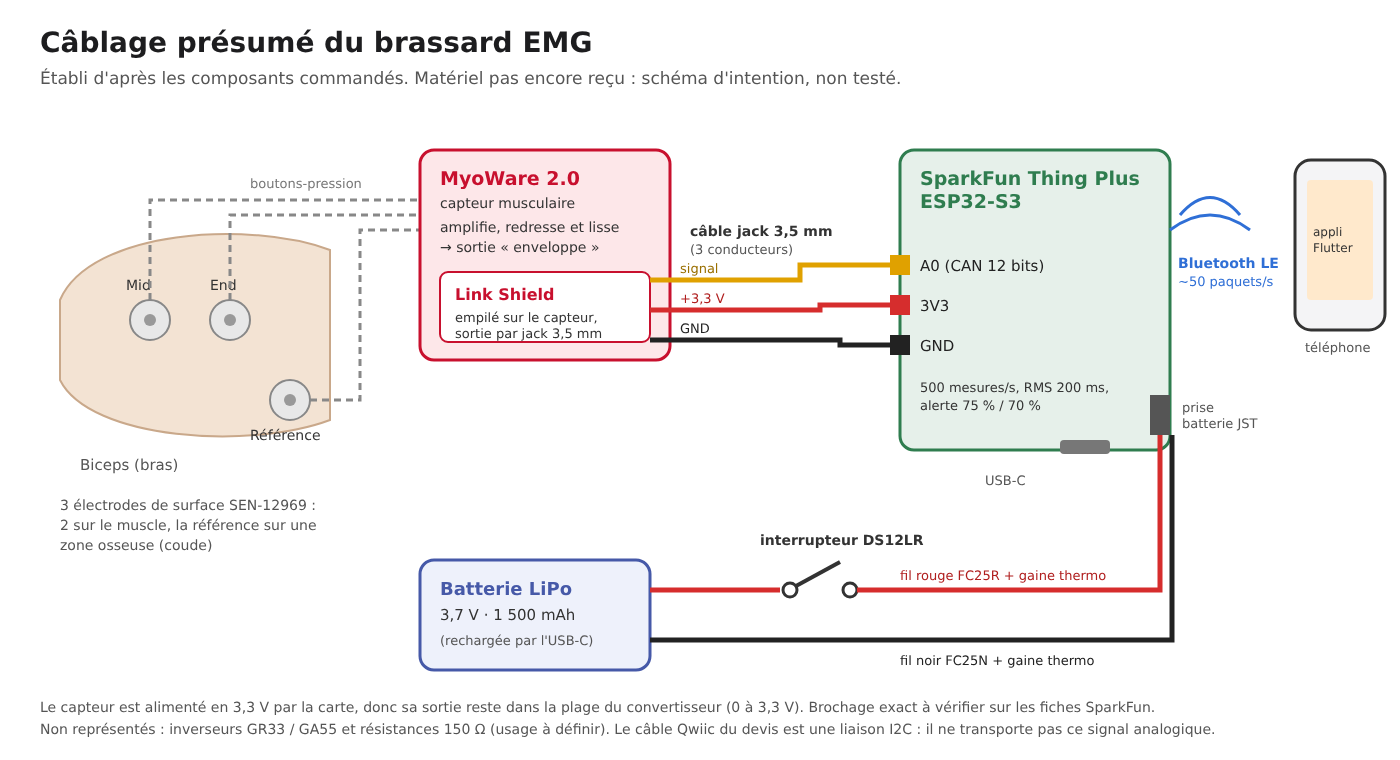
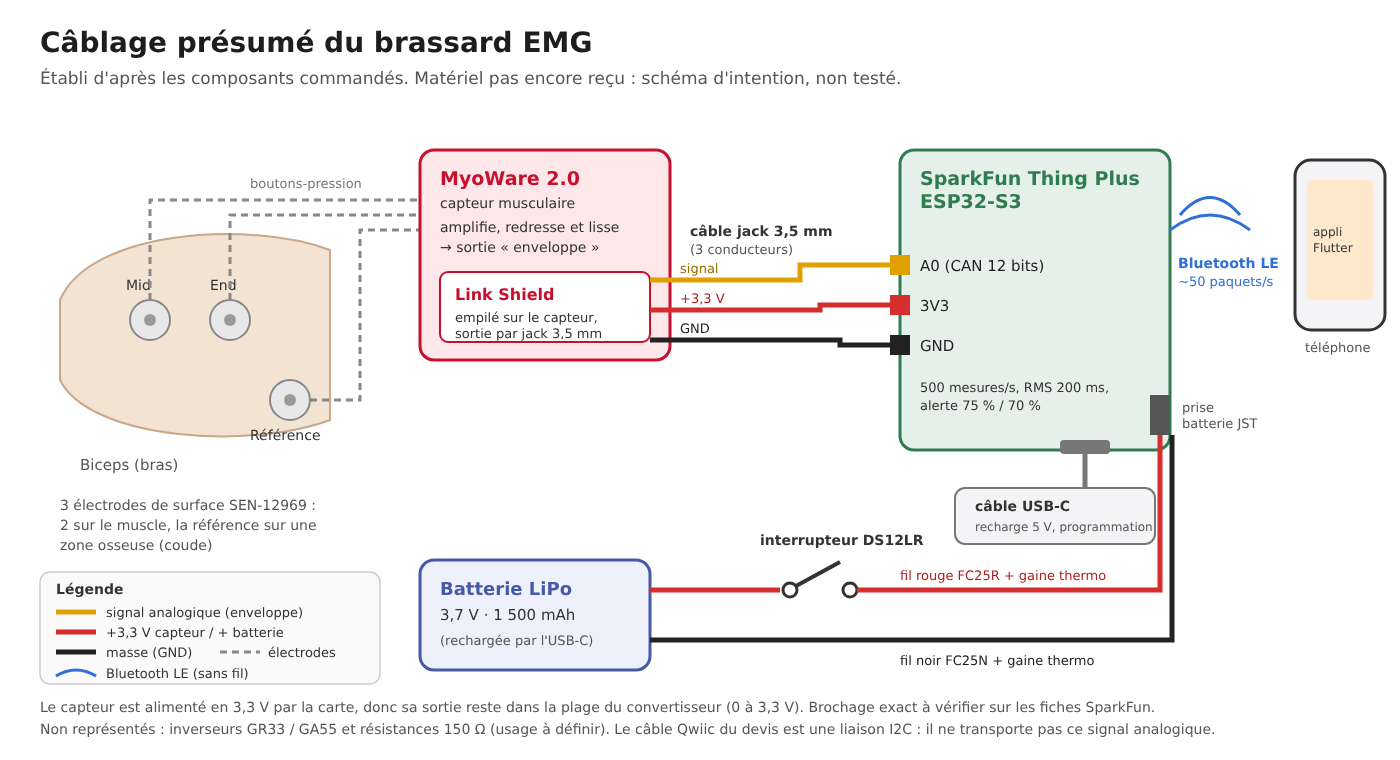
Électronique : câblage présumé du brassard EMG en tête de hardware/ (légende, USB-C), premier capteur cardiaque gardé comme historique

Changed region(s): [[0.0307, 0.7566, 0.2457, 0.9079], [0.6757, 0.6053, 0.8293, 0.7263]]

diff --git a/hardware/README.md b/hardware/README.md
@@ -1,24 +1,47 @@
-# Partie électronique — capteur cardiaque (photopléthysmographe)
+# Partie électronique
 
-> **Première piste du projet.** La version finale du brassard mesure l'activité musculaire (MyoWare 2.0 + ESP32-S3) : voir le [README principal](../README.md) et la [simulation Simulink de la chaîne EMG](simulation-emg/README.md). Ce dossier garde le travail sur le capteur cardiaque.
+## Brassard EMG (version finale) : câblage présumé
+
+Le matériel n'est pas encore reçu. Ce schéma montre comment les composants commandés seront reliés : c'est un schéma d'intention, **non testé**.
+
+![Câblage présumé du brassard EMG](cablage-presume.png)
+
+| Liaison | Détail |
+|---|---|
+| Électrodes → MyoWare 2.0 | 3 électrodes SEN-12969 à boutons-pression : 2 sur le biceps, la référence sur une zone osseuse (coude) |
+| MyoWare 2.0 → Link Shield | le Link Shield s'empile sur le capteur et sort le signal par une prise jack 3,5 mm |
+| Câble jack → ESP32-S3 | 3 conducteurs : signal « enveloppe » sur **A0** (entrée analogique 12 bits), **+3,3 V** et **GND** de la carte |
+| Batterie → carte | LiPo 3,7 V 1 500 mAh sur la prise batterie JST, avec l'interrupteur DS12LR sur le fil rouge |
+| USB-C | recharge de la batterie par la carte et programmation |
+| Carte → téléphone | Bluetooth LE vers l'application Flutter |
+
+- Alimenté en 3,3 V par la carte, le capteur sort une tension qui reste dans la plage du convertisseur (0 à 3,3 V).
+- Le câble Qwiic du devis est une liaison **I2C** (numérique) : il ne transporte pas ce signal analogique, qui doit arriver sur une entrée analogique comme A0.
+- Les inverseurs GR33 / GA55 et les résistances 150 Ω du devis ne sont pas représentés : leur usage reste à définir.
+- Brochage exact à vérifier sur les fiches SparkFun à la réception du matériel.
+- La chaîne de mesure a été testée en simulation sous Simulink : voir [`simulation-emg/`](simulation-emg/README.md).
+
+Fichiers : `cablage-presume.svg` (source du schéma) et `cablage-presume.png` (image).
+
+## Première piste : capteur cardiaque (photopléthysmographe)
+
+Le projet a d'abord exploré un capteur cardiaque sur un ESP32 classique. Ces fichiers sont gardés pour l'historique ; ils ne correspondent plus au brassard final.
 
 | Fichier | Rôle |
 |---|---|
 | `sketch.ino` | Programme ESP32 : lit le signal sur **GPIO34** à 50 Hz et l'envoie sur le port série (115 200 bauds) |
 | `diagram.json` | Simulation Wokwi : ESP32 DevKit v1 + un **potentiomètre** qui remplace le capteur sur GPIO34 |
 | `wokwi.toml` | Utile seulement pour l'extension Wokwi de VS Code (voir plus bas) |
-| `schema_montage.py` | Dessine le schéma d'implantation sur breadboard (`python schema_montage.py` → `schema_montage.png`) |
-| `schema_montage.png` | Schéma généré par le script |
+| `schema_montage.py` | Dessine le schéma d'implantation sur breadboard de ce premier capteur (`python schema_montage.py` → `schema_montage.png`) |
+| [`schema_montage.png`](schema_montage.png) | Schéma généré par le script (premier capteur, plus d'actualité) |
 
-![Schéma de montage](schema_montage.png)
-
-## Montage réel
+### Montage réel
 
 LED IR (émetteur) et phototransistor (récepteur) placés contre la peau. Le signal passe par un double ampli op **LM358** (alimentation ±9 V sur le schéma), puis sa sortie (broche 7) va vers **GPIO34**, une entrée analogique de l'ESP32.
 
 > ⚠ **Attention à la tension** : l'ADC de l'ESP32 accepte **0 à 3,3 V maximum**. Si le LM358 est alimenté en ±9 V, sa sortie peut dépasser 3,3 V ou devenir négative et endommager l'ESP32. Ajoute un pont diviseur et une diode de protection avant GPIO34, ou alimente l'étage de sortie en 0 / 3,3 V.
 
-## Simulation
+### Simulation Wokwi
 
 **Le plus simple : wokwi.com**
 1. Crée un projet « ESP32 » sur https://wokwi.com.
@@ -36,6 +59,6 @@ arduino-cli compile --fqbn esp32:esp32:esp32 --output-dir build sketch
 ```
 `hardware/build/` et `hardware/sketch/` sont ignorés par Git.
 
-## Pas encore fait
+### Pas fait sur cette piste
 
 L'ESP32 n'envoie pas encore le signal à l'application. L'étape suivante serait de calculer les BPM sur l'ESP32 (détection des pics), puis de les transmettre en Bluetooth LE ou en Wi-Fi. L'état du brassard peut déjà être enregistré avec `backend/update_hardware.php`.
